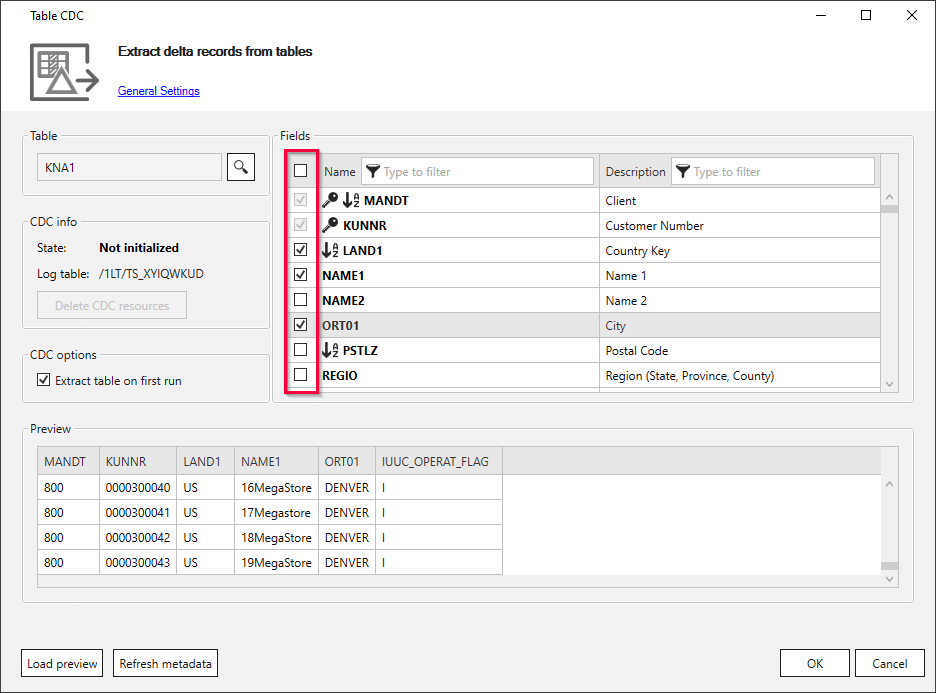
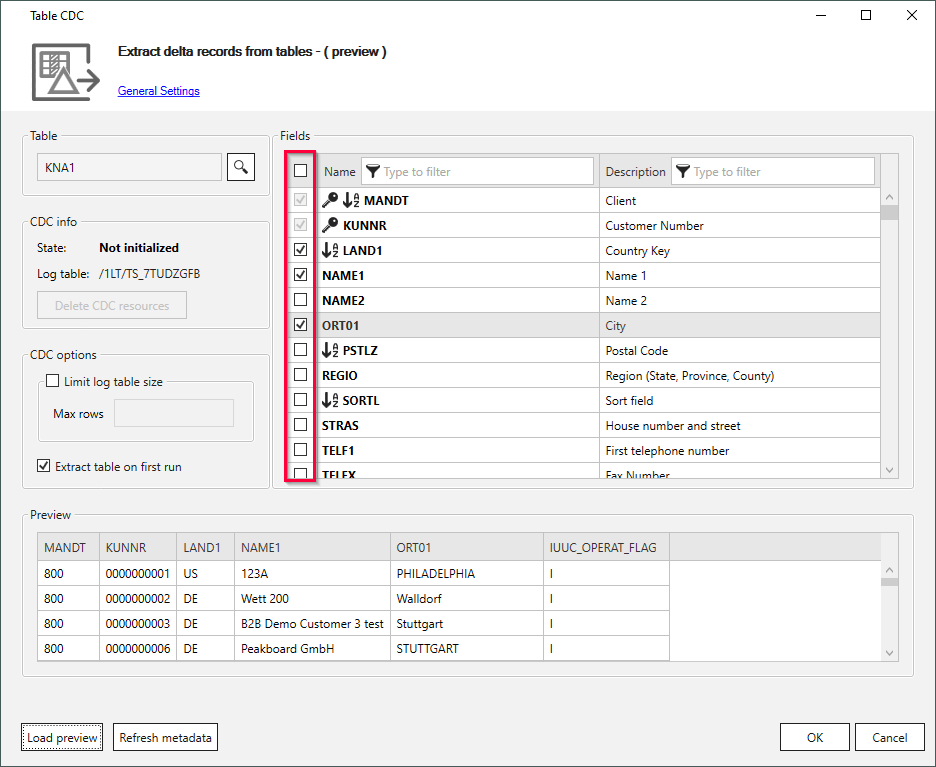
TableCDC Row size limit

diff --git a/_includes/_content/de/tablecdc/extraktion-anlegen.md b/_includes/_content/de/tablecdc/extraktion-anlegen.md
@@ -5,7 +5,7 @@ Der folgende Abschnitt beschreibt die Anwendung der Table Komponente. <br>
 
 ### Eine Tabelle Finden
 
-Wählen die SAP Tabelle, die Sie mit Table CDC nachverfolgen möchten.
+Wählen die SAP Tabelle, die Sie mit Table CDC aufzeichnen möchten.
 
 1. Innerhalb des Hauptfensters der Komponente klicken Sie auf  **[Search]** ( ![magnifying-glass](/img/content/icons/magnifying-glass.png) icon). Das Fenster “Table Lookup” öffnet sich.<br>
 ![Table-CDC](/img/content/tablecdc/table-cdc.png){:class="img-responsive"}
@@ -23,10 +23,13 @@ Richten Sie die Table CDC Komponente ein, um Daten zu extrahieren.
 
 1. Wählen Sie die Spalten aus, die Sie extrahieren möchten.<br> ![Table-CDC-Setup](/img/content/tablecdc/table-cdc-kna1.png){:class="img-responsive"}
 2. Optional: Wenn Sie bei der ersten Ausführung der Extraktion nicht die komplette SAP-Tabelle extrahieren möchten, deaktivieren Sie die Option **[Extract table on first run]**.
-3. Klicken Sie auf **[Load Preview]**, um die ersten 1000 Datensätze der SAP Tabelle anzuzeigen.<br>
+3. Optional: Aktivieren Sie die Option **Limit log table size**, um eine maximale Anzahl von Zeilen festzulegen, die aufgezeichnet werden können.
+Wenn die maximale Zeilenanzahl erreicht ist, schlägt die Extraktion mit einem Ausnahmefehler fehl.
+Beachten Sie, dass die maximale Zeilenanzahl nicht mehr geändert werden kann, sobald die Log-Tabelle initialisiert ist.
+4. Klicken Sie auf **[Load Preview]**, um die ersten 1000 Datensätze der SAP Tabelle anzuzeigen.<br>
 Die Spalte IUUC_OPERAT_FLAG zeigt an, ob die Daten eingefügt (I), aktualisiert (U) oder gelöscht (D) wurden.
-4. Klicken Sie auf **[OK]**, um Ihre Eingaben zu bestätigen.
-5. Führen Sie die Extraktion aus, um eine Log-Tabelle in SAP zu erzeugen, die Änderungen an der ausgewählten SAP Tabelle nachverfolgt, siehe [Die Extraktion zum ersten Mal Ausführen](#die-extraktion-zum-ersten-mal-ausführen).
+5. Klicken Sie auf **[OK]**, um Ihre Eingaben zu bestätigen.
+6. Führen Sie die Extraktion aus, um eine Log-Tabelle in SAP zu erzeugen, die Änderungen an der ausgewählten SAP Tabelle nachverfolgt, siehe [Die Extraktion zum ersten Mal Ausführen](#die-extraktion-zum-ersten-mal-ausführen).
 
 {: .box-note }
 **Hinweis:** Bevor Sie eine Extraktion löschen, klicken Sie ind er Table CDC Komponente auf **[Delete CDC resources]**, um die Log-Tabelle und alle dazugehörigen Elemente aus Ihrem SAP-System zu löschen. 

diff --git a/_includes/_content/en/tablecdc/extract-table-cdc.md b/_includes/_content/en/tablecdc/extract-table-cdc.md
@@ -24,10 +24,13 @@ Set up the Table CDC component to extract data.
 1. Select the columns you want to extract.<br> 
 ![Table-CDC-Setup](/img/content/tablecdc/table-cdc-kna1.png){:class="img-responsive"}
 2. Optional: If you don't want to extract the whole table when first running the extraction, deactivate **[Extract table on first run]**.
-3. Click **[Load Preview]** to load 1000 records for the preview.<br>
+3. Optional: Activate the option **Limit log table size** to set a maximum number of rows that can be tracked. 
+If the row limit is reached, the extraction fails with an exception.
+Note that once a log table is initialized, you cannot change the size limit anymore.
+4. Click **[Load Preview]** to load 1000 records for the preview.<br>
 The column IUUC_OPERAT_FLAG indicates if a row was inserted (I), updated (U) or deleted (D).
-4. Click **[OK]** to confirm your settings.
-5. Run the extraction to create a log table in SAP that records any changes made to a selected table, see [Run the Extraction for the First Time](#run-the-extraction-for-the-first-time). <br>
+5. Click **[OK]** to confirm your settings.
+6. Run the extraction to create a log table in SAP that records any changes made to a selected table, see [Run the Extraction for the First Time](#run-the-extraction-for-the-first-time). <br>
 
 {: .box-note }
 **Note:** Before deleting an extraction, click **[Delete CDC resources]** in the Table CDC component to delete the log table and all associated triggers from your SAP system.
